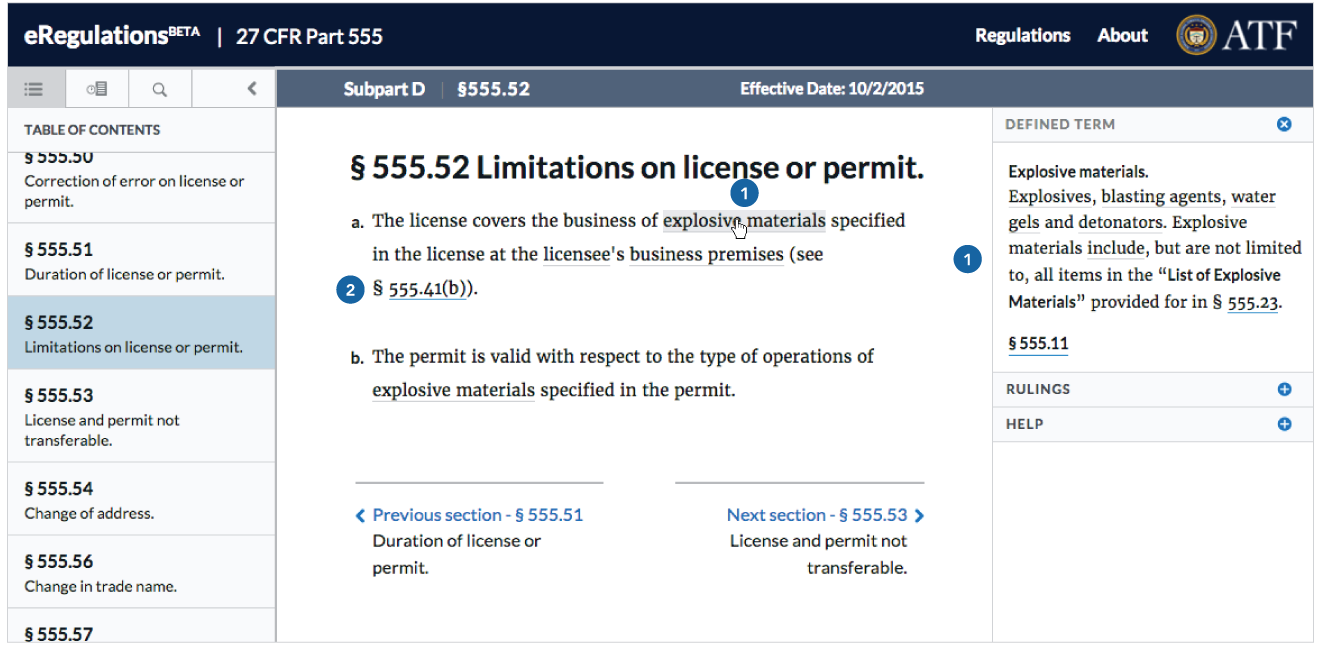
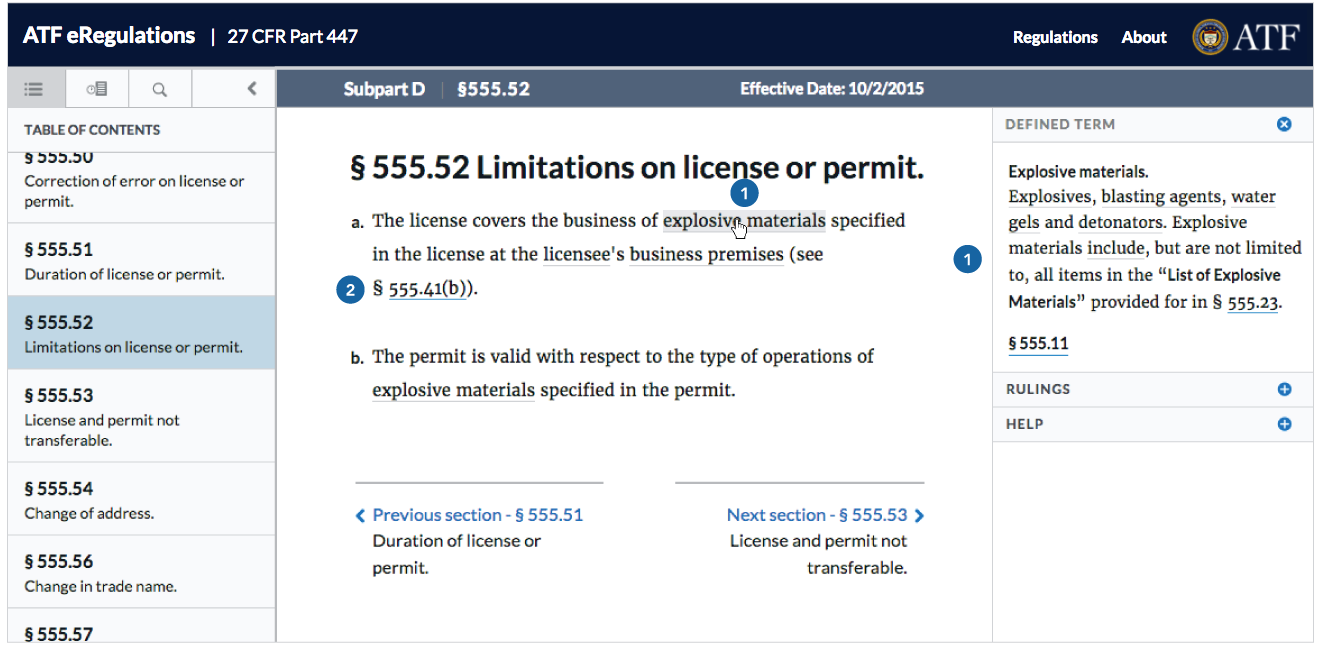
Change intro and related information text on About page. Also change related information images to match the text.

Changed region(s): [[0.7144, 0.0, 0.9939, 0.0922], [0.0, 0.0307, 0.3106, 0.0922]]

diff --git a/atf_eregs/templates/regulations/about.html b/atf_eregs/templates/regulations/about.html
@@ -62,10 +62,10 @@
         <ol class="about-ol">
             <li><strong>Defined terms</strong> are highlighted in the text and displayed in the right sidebar so you can keep your place.</li>
             <li>References to other parts of the regulation are <strong>linked</strong>.</li>
-            <li>ATF Rulings that reference regulation sections or paragraphs
+            <li>Some ATF documents that reference regulation sections or paragraphs
               are collected and linked to on the side of the regulation text.
-              The <strong>Rulings</strong> bar will become gold when a section
-              has related Rulings.</li>
+              The <strong>related documents</strong> bar will become light blue when a section
+              has related documents.</li>
         </ol>
     </div>
 
